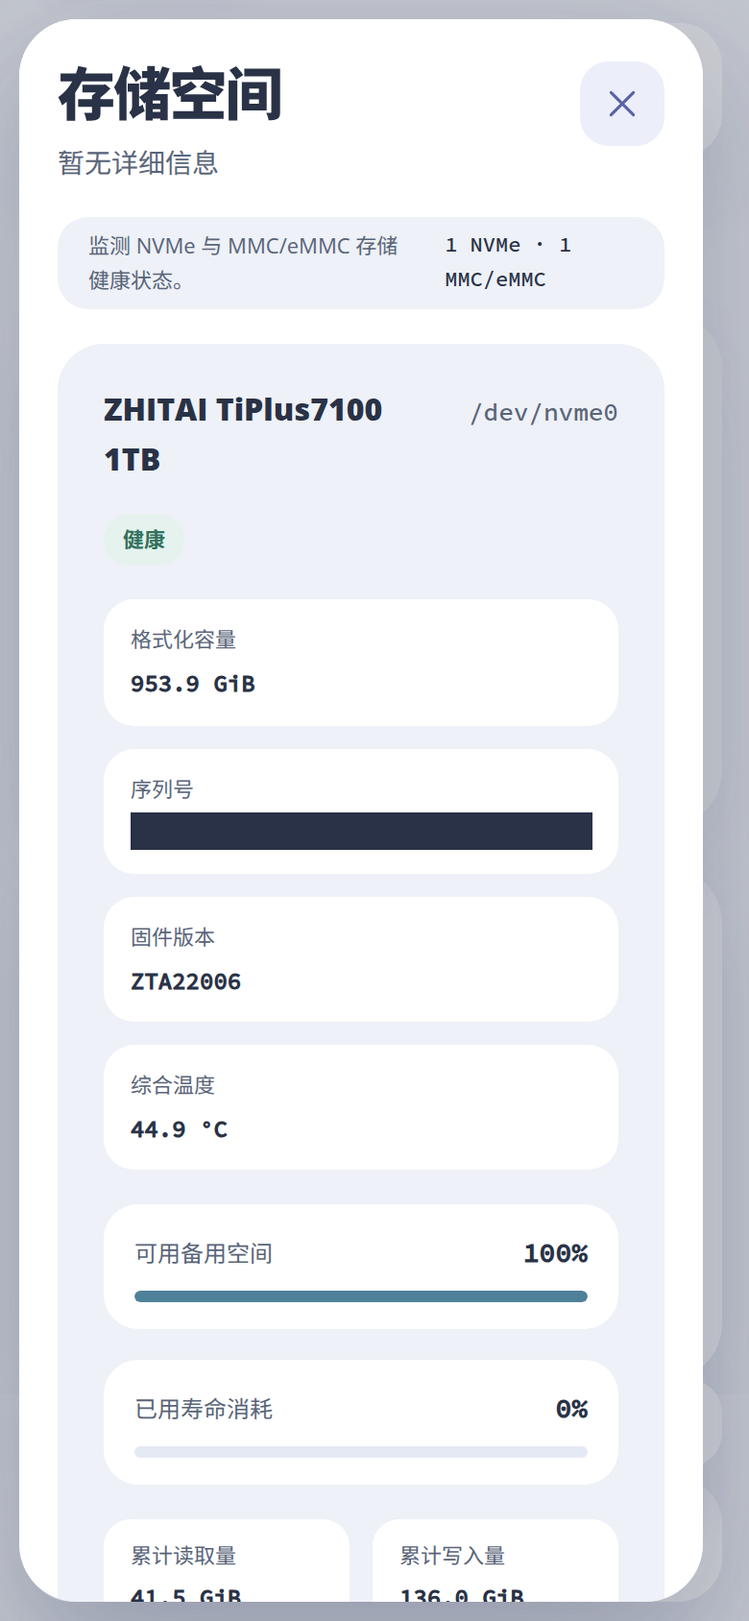
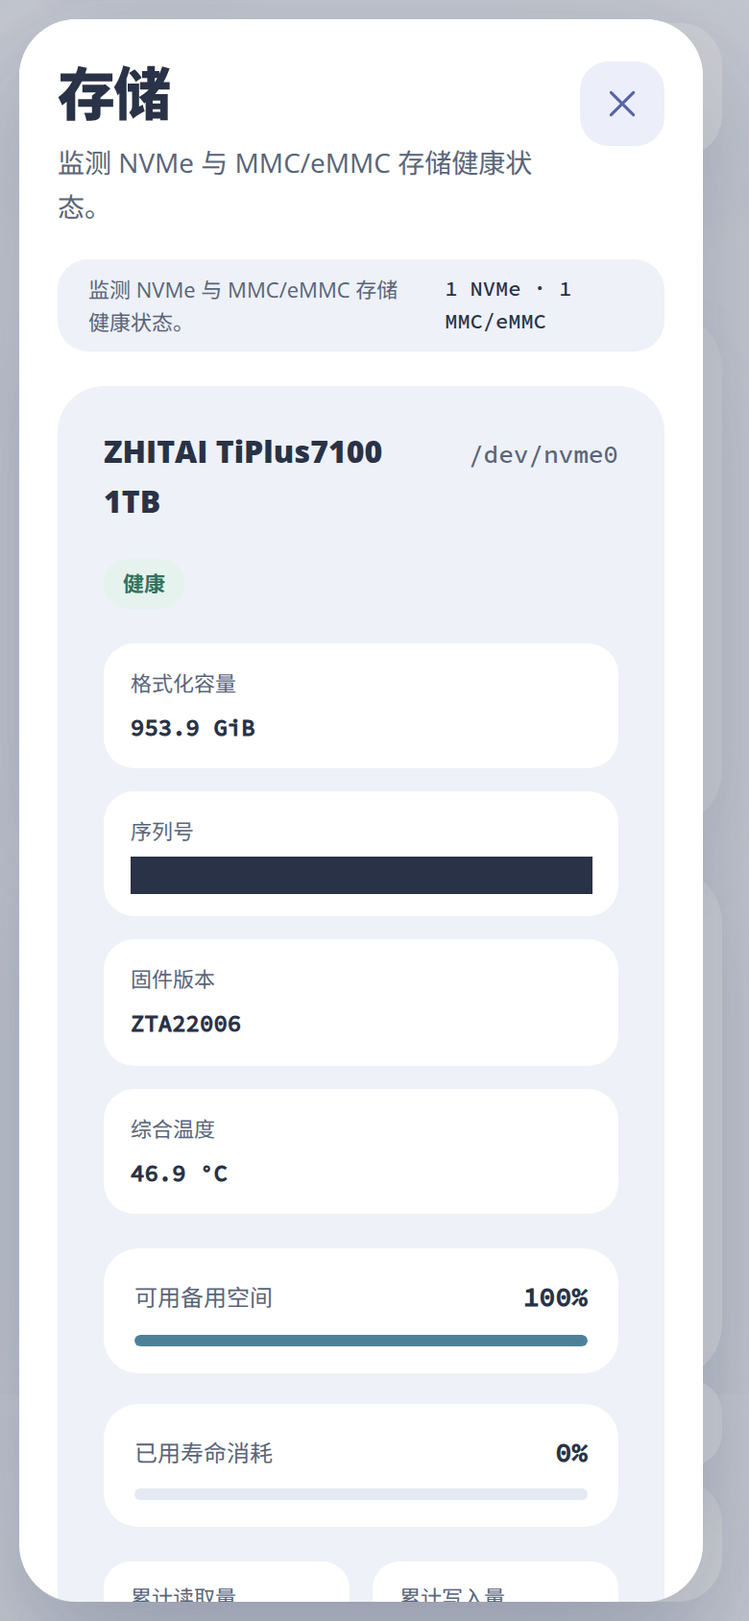
docs(testing): re-verify MMC storage on hardware after the web integration restoration
在两台 SBC 上对统一存储（TUI + Web）重新取证并更新报告：

- Web 侧重新核验：REST `/api/v1/hardware/storage` 200、`/api/v1/hardware/nvme` 404、
  capability detail `1 NVMe · 1 eMMC` / `1 eMMC`；抽屉文案与矩阵卡片标签已按修复后
  的命名空间/本地化正确显示（中英均已截图，英文视图由页面自身 setLocale 切换）。
- 上一轮记录的两项 Web 缺陷 W1/W2 标记为已修复，附失败态独立复现证据与实机 DOM 复核。
- 证据更新为 11 张截图（新增英文视图），全部序列号像素级打码；报告内不留序列号明文。
- TUI 证据用修复版二进制重新采集；T1（窄屏 eMMC 行折行）仍为待办。

diff --git a/docs/testing/mmc-2026-09-12/report.md b/docs/testing/mmc-2026-09-12/report.md
@@ -1,21 +1,19 @@
 # MMC/eMMC 统一存储 (Storage) 呈现 实机核验报告
 
-日期：2026-09-12。对象：`rsetup-next` 的 MMC/eMMC 内核采集与统一「存储 (Storage)」呈现（核心库 sysfs 采集、CLI、TUI、Web 控制中心）。范围：只读观测，未执行任何硬件或系统写入。基线提交 `5b14b73`。
+日期：2026-09-12。对象：`rsetup-next` 的 MMC/eMMC 内核采集与统一「存储 (Storage)」呈现（核心库 sysfs 采集、CLI、TUI、Web 控制中心）。范围：只读观测，未执行任何硬件或系统写入。核验基线：`dev-aghost` 上的统一存储 Web 集成（恢复提交 `6465543` / `54a755c`，随后一次仅涉及测试与文案的收紧提交，见第 11 节）。
 
-判定依据：TUI 部分对照 `docs/superpowers/specs/2026-09-12-mmc-storage-tui-design.md`；Web 部分对照统一存储呈现的设计规范（REST `GET /api/v1/hardware/storage` 聚合端点 + 硬件矩阵中的 `storage` 工具）。
-
-> 核验对象说明：TUI/CLI 部分与仓库 TUI 规范同源；Web 部分核验的是「统一存储 Web 呈现」这一实现版本（聚合 REST 端点、`storage` 硬件工具、MMC/eMMC 卡片），第 8 节中 `web-*` 截图即该版本的实机证据。
+判定依据：TUI 部分对照 `docs/superpowers/specs/2026-09-12-mmc-storage-tui-design.md`；Web 部分对照本分支实现的统一存储呈现行为（REST 聚合端点 + 硬件矩阵 `storage` 工具 + MMC/eMMC 卡片）与本次重实现计划 `docs/superpowers/plans/2026-09-12-mmc-storage-web-reimplementation-plan.md`。
 
 ## 1. 结论摘要
 
-- **MMC/eMMC 数据链路符合预期**：TUI 与 Web 在同一台设备上呈现的型号、厂商、容量、序列号、固件、SLC/MLC 寿命、pre-EOL 状态，与 sysfs、CLI（`hardware mmc/storage --json`）三方一致；`lifeTimeEstBPercent: null`（Rock 5B 的 `life_time = 0x01 0x00`）在 TUI 显示「不支持」、Web 显示「不支持」且进度条置灰，两端口径一致。
-- **Web 传输层与呈现符合预期**：`GET /api/v1/hardware/storage` 在两类实机（有/无 NVMe）均返回聚合结构；硬件矩阵的 `storage` 卡片、面板头计数徽章、NVMe 与 MMC 卡片布局、移动端单列均与设计一致。
-- **发现 2 项 Web 缺陷**（均为文案/本地化层，数据与结构无误）：
-  - **W1**：Storage 抽屉标题显示「存储空间」、副标题显示「暂无详细信息」（EN 为 `Storage map` / `Details unavailable`）——副标题是缺失 i18n 键的回退哨兵。
-  - **W2**：中文界面下硬件矩阵中该卡片标签仍是英文 `Storage`，同屏其他卡片均为中文。
-- **发现 1 项 TUI 外观问题**（无数据丢失）：**T1** 在 Rock 3A 上 eMMC 设备行超出卡片内宽（61 > 59 列）折行，容量被拆成「58.24」/「GiB」两行。
-- 另有若干「规范示意 vs 实现」的等价差异（第 6 节），建议回写规范而非改代码。
-- 未覆盖面（第 7 节）：SD 卡分支、多 MMC 设备、warning/critical 健康态、空态在实机上均未触发，仅由单元/渲染测试覆盖。
+- **MMC/eMMC 数据链路符合预期**：TUI 与 Web 在同一台设备上呈现的型号、厂商、容量、序列号、固件、SLC/MLC 寿命、pre-EOL 状态，与 sysfs、CLI（`hardware mmc/storage --json`）三方一致；`lifeTimeEstBPercent: null`（Rock 5B 的 `life_time = 0x01 0x00`）在 TUI 与 Web 均显示「不支持」且进度条置灰。
+- **Web 传输层与呈现符合预期**：`GET /api/v1/hardware/storage` 在两类实机（有/无 NVMe）均返回聚合结构与正确 capability detail；**`GET /api/v1/hardware/nvme` 按设计移除**，实机返回 404；硬件矩阵 `storage` 卡片、面板头计数徽章、NVMe 与 MMC 卡片布局、移动端单列均符合预期。
+- **上一轮核验发现的两项 Web 缺陷已修复并锁定**：
+  - **W1**（抽屉标题/副标题文案错误）：实机抽屉标题现为「存储」（EN `Storage`），副标题为「监测 NVMe 与 MMC/eMMC 存储健康状态。」（EN `Monitor NVMe and MMC/eMMC storage health.`）。
+  - **W2**（矩阵卡片标签未本地化）：中文界面下卡片标题现为「存储」，与同屏其他卡片一致（EN 仍为 `Storage`）。
+- **发现 1 项 TUI 外观问题**（无数据丢失，仍未处理）：**T1** 在 Rock 3A 上 eMMC 设备行超出卡片内宽（61 > 59 列）折行，容量被拆成「58.24」/「GiB」两行。
+- 另有若干「规范示意 vs 实现」的等价差异（第 6 节）与代码质量待办（第 10 节第 2 条，来自本次任务审查的次要发现）。
+- 未覆盖面（第 7 节）：SD 卡分支、多 MMC 设备、warning/critical 健康态、空态在实机上未触发，仅由单元/渲染测试覆盖。
 
 ## 2. 测试基线
 
@@ -47,9 +45,9 @@
 
 ### 2.3 构建、部署与采集方式
 
[2 lines of base64/hex data omitted]
 - TUI 采集：`scripts/capture-tui-remote.py <host> <raw> zh_CN.UTF-8 100 30` 采集原始 ANSI 流，再由 `scripts/capture-tui-screenshot.py <raw> <png> 100 30` 离屏渲染为 PNG（CJK 字体、东亚宽字符占两格）。
-- Web 采集：两台机器分别 `rsetup-next serve --listen 127.0.0.1:19088|19089`（仅监听回环，未开放局域网），经 `ssh -L` 隧道映射到本机；`scripts/capture-web-screenshot.mjs --tool storage`，headless Chrome 152、light 主题、desktop 1440×900 / mobile 390×844 @2x、`--settle 1800`。
+- Web 采集：两台机器分别 `rsetup-next serve --listen 127.0.0.1:19088|19089`（仅监听回环，未开放局域网），经 `ssh -L` 隧道映射到本机；`scripts/capture-web-screenshot.mjs --tool storage`，headless Chrome 152、light 主题、desktop 1440×900 / mobile 390×844 @2x / 矩阵无点击视图、`--settle 1800`。英文视图由 `--eval` 调用页面自身的 `window.RsetupI18n.setLocale("en")` 切换后同流程采集。
 - 采集工具链：Node v22.22.1、Python 3 + Pillow 12.1.1。
 
 ## 3. 三方一致性（核心判定表）
@@ -66,6 +64,8 @@
 | 34 SLC/MLC | `0x01` / `0x01` | `10` / `10` | `SLC 寿命: 10% · MLC 寿命: 10%` | 两条 10% 绿条 |
 | 34 NVMe | 无 | `initialized: false` + `message` | 不渲染 NVMe 行 | 不渲染 NVMe 区、无空提示 |
 
+实机 REST 复核（两台机器）：`GET /api/v1/hardware/storage` → **200**（88：1 NVMe + 1 MMC；34：1 MMC + `nvme.initialized:false`）、`GET /api/v1/hardware/nvme` → **404**；`/api/v1/snapshot` 的 capability 为 `("storage", available:true, "1 NVMe · 1 eMMC")` / `("storage", available:true, "1 eMMC")`。
+
 ## 4. 符合预期项
 
 ### 4.1 TUI（对照 TUI 规范 §5）
@@ -78,7 +78,7 @@
 | §5.2 eMMC 行 1：类型 + 块设备 + 型号 + 厂商 + 容量 | `[eMMC] /dev/mmcblk0 · A3A562 · 0x0000d6 · 115.23 GiB` | 符合（字形与规范示意略有差异，见第 6 节） |
 | §5.2 eMMC 行 2：状态 + SLC/MLC 寿命 + pre-EOL | `状态: 正常 · SLC 寿命: 10% · MLC 寿命: 不支持 · 预警: 正常` | 符合 |
 | 未支持/未定义指标降级 | 88 的 MLC 显示 `不支持`（源自 `0x00`），未误报为 0% | 符合 |
-| 中英多语言 | 本轮为 zh_CN 实机；en 由 `cargo test` 渲染用例覆盖 | 部分覆盖（见第 7 节） |
+| 中英多语言 | 本轮 TUI 为 zh_CN 实机；en 由 `cargo test` 渲染用例覆盖 | 部分覆盖（见第 7 节） |
 
 ### 4.2 Web 控制中心（统一存储呈现）
 
@@ -88,47 +88,47 @@
 | `/api/v1/hardware/nvme` 端点按设计移除 | 两台均 404 | 符合 |
 | camelCase 键名与空态语义 | `blockPath`/`cardType`/`totalBytes`/`health.preEolInfo` 等键名正确；34 的 NVMe 子对象为 `initialized: false` + 未检测文案（200 而非错误） | 符合 |
 | capability id 为 `storage`，availability = 任一类非空 | 硬件矩阵存在 `storage` 卡片；detail 88 = `1 NVMe · 1 eMMC`，34 = `1 eMMC` | 符合 |
+| 抽屉标题与描述 | 标题「存储」/`Storage`，描述「监测 NVMe 与 MMC/eMMC 存储健康状态。」/`Monitor NVMe and MMC/eMMC storage health.`（**W1 修复后**） | 符合 |
+| 矩阵卡片 label 随界面语言本地化 | 中文「存储」（**W2 修复后**）；英文 `Storage` | 符合 |
 | 矩阵卡片图标 | 显示磁盘堆叠图标（`icon-storage`，与 `icon-nvme` 同风格） | 符合 |
 | 面板头 = 描述文案 + 计数徽章 | `监测 NVMe 与 MMC/eMMC 存储健康状态。` + `1 NVMe · 1 MMC/eMMC`（88）/ `1 MMC/eMMC`（34） | 符合 |
 | 仅一侧有设备时只渲染该侧 | 34 无 NVMe 区、无 NVMe 空提示；88 两类都在 | 符合 |
 | NVMe 区在上、MMC 区在下 | 88 桌面截图：NVMe 卡片 → MMC 卡片 | 符合 |
 | MMC 卡片标题=model、副标题=blockPath | `A3A562` / `064G02` + `/dev/mmcblk0` | 符合 |
 | 卡类型徽章 `MMC`→eMMC、`SD`→SD | 两枚徽章均显示 `eMMC` | 符合（SD 分支未在实机触发） |
-| 健康徽章三态优先级 | 两台 `preEolInfo: 1`、`warningFlags: []` → 健康徽章「健康」 | 符合（warning/critical 未在实机触发） |
+| 健康徽章三态优先级 | 两台 `preEolInfo: 1`、`warningFlags: []` → 健康徽章「健康」/`Healthy` | 符合（warning/critical 未在实机触发） |
 | 规格网格 4 项（容量/序列号/固件/厂商） | 桌面 2×2、移动单列，值与 CLI 一致 | 符合 |
 | SLC/MLC 寿命进度条，`null` → 置灰 + N/A 文案 | DOM 实测：`is-normal` + `--metric-percent: 10%`（SLC）、`is-na` + `0%`（MLC，88）、两条 `is-normal` 10%（34） | 符合 |
 | pre-EOL 行四态文案 | 两台均 `正常` | 符合 |
 | 移动端布局 | 390×844 @2x 下卡片单列铺满，无横向溢出 | 符合 |
-| 前端无运行时错误 | 全部 8 次采集 `consoleErrors: []` | 符合 |
+| 前端无运行时错误 | 全部 10 次采集 `consoleErrors: []` | 符合 |
 
 ## 5. 发现的问题
 
-### W1（缺陷，Web）Storage 抽屉标题与副标题文案错误
+### W1（缺陷，Web）Storage 抽屉标题与副标题文案错误 — **已修复**
 
-- **现象**：打开 Storage 工具后，抽屉标题为「**存储空间**」、紧随其下的副标题为「**暂无详细信息**」（英文环境为 `Storage map` / `Details unavailable`），而面板内部同时显示着完整的 NVMe 与 MMC 遥测。
-- **证据**：`web-rock5b-storage-desktop.png`、`web-rock5b-storage-mobile-top.png`、`web-rock3a-storage-desktop.png`、`web-rock3a-storage-mobile.png`；DOM 实测 `drawerTitle: "存储空间"`、`drawerDescription: "暂无详细信息"`。
-- **根因**：`ui/app.js:1013` `hardwareToolCopy()` 的 prefix map 把 `storage` 指向既有的 `storage.*` 键族，而该键族属于系统页「存储空间（根分区用量）」（`ui/i18n.js:740` `storage.title` = 存储空间），**且 `storage.description` 这个键不存在**，`i18n.t()` 于是回退到缺失键哨兵 `ui/i18n.js:1132` → `text.unavailable` =「暂无详细信息」/「Details unavailable」。
-- **规范归属**：设计规范已要求新增 `storageTool.title`（存储）与 `storageTool.description`，并说明 `storage.*` 前缀已被系统页占用；实现也在**面板头**正确使用了 `storageTool.description`，但 prefix map 一行仍指向 `storage: "storage"`，与前者冲突。**结论：规范内部矛盾导致的产品缺陷**，两处都需修（映射改到 `storageTool.*`，并去掉对不存在的 `storage.description` 的依赖）。
-- **影响**：工具标题与「系统 → 存储空间」重名，副标题自称「暂无详细信息」却展示全部详情，属明确的用户可见错误文案；桌面/移动、中英一致复现。
+- **原现象**：抽屉标题为「存储空间」、副标题为「暂无详细信息」（EN `Storage map` / `Details unavailable`），而面板内部同时显示完整的 NVMe 与 MMC 遥测。
+- **根因**：`ui/app.js` 的 `hardwareToolCopy()` prefix map 把 `storage` 指向既有的 `storage.*` 键族（系统页根存储面板），而 `storage.description` 键不存在，`i18n.t()` 回退到缺失键哨兵 `text.unavailable`。
+- **修复**：`storage` 改走 `storageTool.*` 命名空间（标题「存储」/`Storage`，描述取 `storageTool.description`）——一处 token 改动。
+- **证据**：① 测试 `ui/storage.test.mjs` 的 `storage drawer copy resolves through the storageTool namespace`（提取真实 `hardwareToolCopy` + 真实字典，断言两种语言的解析结果）；把该 token 还原为 `storage` 后该用例 **FAIL**（控制器在一次性 worktree 中独立复现：1/6 失败），修复后全绿。② 实机 DOM 复核（两台机器）：`drawerTitle` = 「存储」/`Storage`、`drawerDescription` = 「监测 NVMe 与 MMC/eMMC 存储健康状态。」/`Monitor NVMe and MMC/eMMC storage health.`。③ 截图：`web-rock5b-storage-desktop.png`、`web-rock5b-storage-desktop-en.png`、`web-rock3a-storage-desktop.png`。
 
-### W2（缺陷，Web）中文界面下矩阵卡片标签未本地化
+### W2（缺陷，Web）中文界面下矩阵卡片标签未本地化 — **已修复**
 
-- **现象**：硬件矩阵中该卡片标题为英文 `Storage`，而同一屏其余卡片均为中文（设备树叠加层 / GPIO / 视频采集 / 温控能力 / LED 控制 / SPI 启动闪存）。
-- **证据**：`web-rock5b-storage-matrix.png`、`web-rock3a-storage-matrix.png`。
-- **根因**：`ui/i18n.js:1105` 的 `capabilityCopy` 只有旧的 `nvme: ["NVMe 存储", "NVMe 固态存储设备"]`，没有 `storage` 条目 → `i18n.capability()` 直接返回探测端的英文 label。连带 `ui/i18n.js:1191` 的 `value.id === "nvme"` 分支与 1192 行列表中的 `"NVMe controllers detected"` 成为死代码。
-- **规范归属**：设计规范只枚举了 `ui/app.js` 五处 + `ui/index.html` 一处，未提及 `ui/i18n.js` 的 `capabilityCopy`（该表按 capability id 本地化 label/detail）。属规范遗漏。
-- **影响**：本地化不一致；detail 文案（`1 NVMe · 1 eMMC` / `1 eMMC`）本身中英通用，未受影响。
+- **原现象**：硬件矩阵中该卡片标题为英文 `Storage`，同屏其余卡片均为中文。
+- **根因**：`ui/i18n.js` 的 `capabilityCopy` 仍以旧 capability id `nvme` 为键，改名后无 `storage` 条目 → 直接回退到后端英文 label。
+- **修复**：`capabilityCopy` 键改为 `storage`（中文 label「存储」），并补 `hardwareReason` 的 `"No storage devices detected" → "未检测到存储设备"` 映射；同时删除改名后不可达的 `value.id === "nvme"` 明细分支与 `"NVMe controllers detected"` 残留字符串。
+- **证据**：① 测试 `ui/i18n.test.mjs` 的 `storage capability card is localized under its renamed id`；把键还原为 `nvme` 后该用例 **FAIL**（控制器独立复现：1/16），修复后全绿。② 实机 DOM 复核：中文界面矩阵卡片为「存储」（88 `1 NVMe · 1 eMMC`、34 `1 eMMC`），英文界面为 `Storage`。③ 截图：`web-rock5b-storage-matrix.png`、`web-rock3a-storage-matrix.png`。
 
-### T1（外观问题，TUI）窄屏下 eMMC 设备行折行，容量数值跨行
+### T1（外观问题，TUI）窄屏下 eMMC 设备行折行，容量数值跨行 — **待办**
 
 - **现象**：Rock 3A（100×30 终端、卡片内宽 59 列）上该行渲染为两行：`[eMMC] /dev/mmcblk0 · 064G02 · Toshiba (0x000011) · 58.24` / `GiB`。
 - **实测**：该行显示宽度 61 列 > 59 列内宽。Rock 5B（厂商为未映射的 `0x0000d6`，行宽更短）不折行，故问题只在厂商名带名称映射时出现。
-- **影响**：**无数据丢失**——卡片高度按折行行数计算（`crates/rsetup-app/src/tui.rs:396-419` 的 `wrapped_rows`），未发生截断；但「一台设备两行」的排版被破坏，容量数值被拆到第二行，可读性下降。
-- **一致性缺口**：NVMe 行有宽度自适应降级（`tui.rs:643-674`：`已用寿命:` 超宽时改成短标签），MMC 行没有等价的降级路径。
+- **影响**：**无数据丢失**——卡片高度按折行行数计算（`crates/rsetup-app/src/tui.rs` 的 `wrapped_rows`），未发生截断；但「一台设备两行」的排版被破坏，容量数值被拆到第二行，可读性下降。
+- **一致性缺口**：NVMe 行有宽度自适应降级（`已用寿命:` 超宽时改成短标签），MMC 行没有等价的降级路径。
 
 ## 6. 规范 vs 实现的等价差异（建议回写规范，非缺陷）
 
-1. **TUI 高度策略**：规范 §5.1 要求 N=1 时 5~6 行完整展开、N≥2 时每盘 2 行紧凑排版且状态行缩进；实现统一为 NVMe 每盘 3 行、MMC 每盘 2 行、状态行不缩进（TDD 计划执行期已就此裁定并记录在 `.superpowers/sdd/2026-09-12-mmc-storage-tui-tdd-plan/progress.md`）。信息量与可读性等价。
+1. **TUI 高度策略**：规范 §5.1 要求 N=1 时 5~6 行完整展开、N≥2 时每盘 2 行紧凑排版且状态行缩进；实现统一为 NVMe 每盘 3 行、MMC 每盘 2 行、状态行不缩进。信息量与可读性等价。
 2. **eMMC 行字形**：规范 §5.2 示意 `[eMMC] mmcblk0 (FE4MB4) · Samsung · 58.2 GiB`；实现为 `[eMMC] /dev/mmcblk0 · A3A562 · 0x0000d6 · 115.23 GiB`（带 `/dev/` 前缀、`·` 分隔、厂商输出原始 hex）。信息等价。
 3. **寿命文案**：规范 §5.1 示例为 `寿命耗损: SLC <10% / MLC <10%`；实现为 `SLC 寿命: 10%`，即以 JEDEC 区间上界呈现 `0x01`。CLI、TUI 与 Web 端采用同一口径（Web 的 `lifeTimeEstAPercent: 10`）。
 4. **容量精度**：TUI/CLI 用二进制单位（115.23 / 58.24 GiB），Web 卡片用一位小数（115.2 / 58.2 GiB）。同一数值的不同精度呈现，非不一致。
@@ -138,8 +138,8 @@
 - **无 SD 卡**：两台实机各只有一个 `mmc0`（`type = MMC`），`cardType === "SD"` 的徽章分支与 SD 特有线未在实机验证，仅由单元/渲染用例覆盖。
 - **无多 MMC / 多盘密集场景**：无法验证 N≥2 时的紧凑排版与 `... (+M more devices)` 截断提示（代码路径存在但实机未触发）。
 - **无告警健康态**：两台设备 `pre_eol_info = 0x01`、`warningFlags` 为空，只验证了健康徽章与绿色进度条；warning/critical 配色未在实机出现。
-- **无空态**：本机 x86_64 无 MMC/NVMe 设备，两台 SBC 都有设备，「未检测到存储设备」空态未在实机触发。
-- **英文实机截图未采**：本轮 TUI/Web 截图均为中文界面；TUI 英文渲染由 `cargo test` 覆盖，Web 英文文案（W1 的 `Storage map` / `Details unavailable`）由字典与回退链推断，未以截图固定。
+- **无空态**：本机 x86_64 无 MMC/NVMe 设备，两台 SBC 都有设备，「未检测到存储设备」空态未在实机触发（仅有单元/渲染用例覆盖）。
+- **TUI 英文实机截图未采**：本轮 TUI 截图为 zh_CN 实机；TUI 英文渲染由 `cargo test` 覆盖。Web 侧中英两种界面均已实机截图（见第 8 节）。
 - **采集通道**：TUI 经 SSH PTY 采集原始 ANSI 流后离屏渲染为 PNG（非物理控制台）；Web 为 headless Chrome 152 截图。温度、读写计数等实时量随运行时间自然漂移，不要求跨次采集严格相等。
 
 ## 8. 证据清单
@@ -148,26 +148,25 @@
 
 | 文件 | 采集配置 | 打码处 | SHA-256（前 16 位） |
 | --- | --- | --- | --- |
-| `tui-rock5b-storage-zh.png` | TUI 100×30，zh_CN，Rock 5B（NVMe + eMMC） | —（TUI 不渲染序列号） | `8750856ff7f17005` |
-| `tui-rock3a-storage-zh.png` | TUI 100×30，zh_CN，Rock 3A（仅 eMMC） | —（同上） | `8dfd6f2e9c9a18a9` |
-| `web-rock5b-storage-desktop.png` | 1440×900，drawer 顶部（面板头 + NVMe 卡片 + MMC 卡片起始） | NVMe + eMMC 序列号 | `0caef824b2568703` |
-| `web-rock5b-storage-desktop-mmc.png` | 1440×900，drawer 滚到底（NVMe 尾部 + eMMC 整卡） | NVMe + eMMC 序列号 | `3176ebe70860aecf` |
-| `web-rock5b-storage-mobile-top.png` | 390×844 @2x，drawer 顶部（面板头徽章 `1 NVMe · 1 MMC/eMMC`） | NVMe 序列号（eMMC 值在折叠线以下） | `1d0ced7a8a571e2d` |
-| `web-rock5b-storage-mobile-mmc.png` | 390×844 @2x，drawer 滚到底（eMMC 单列卡） | eMMC 序列号（NVMe 值已滚出视口） | `dd2486b4cddc3a59` |
-| `web-rock3a-storage-desktop.png` | 1440×900，仅 eMMC 面板 | eMMC 序列号 | `2b6280dffe9f1b44` |
-| `web-rock3a-storage-mobile.png` | 390×844 @2x，仅 eMMC 面板 | eMMC 序列号 | `ee96b678a444d1ad` |
-| `web-rock5b-storage-matrix.png` | 1440×900，硬件矩阵（`Storage` 卡片 + `1 NVMe · 1 eMMC`） | —（矩阵不渲染序列号） | `b2d74f31e3487d0d` |
-| `web-rock3a-storage-matrix.png` | 1440×900，硬件矩阵（`Storage` 卡片 + `1 eMMC`） | —（同上） | `3a8c786441c1d4f0` |
+| `tui-rock5b-storage-zh.png` | TUI 100×30，zh_CN，Rock 5B（NVMe + eMMC） | —（TUI 不渲染序列号） | `bbe930f549e310dd` |
+| `tui-rock3a-storage-zh.png` | TUI 100×30，zh_CN，Rock 3A（仅 eMMC） | —（同上） | `89d7cbc244a8762d` |
+| `web-rock5b-storage-desktop.png` | 1440×900，zh，drawer 顶部（面板头 + NVMe 卡片 + MMC 卡片起始） | NVMe + eMMC 序列号 | `f1177360fa228a24` |
+| `web-rock5b-storage-desktop-mmc.png` | 1440×900，zh，drawer 滚到底（NVMe 尾部 + eMMC 整卡） | NVMe + eMMC 序列号 | `ea028ee6ac5deeaf` |
+| `web-rock5b-storage-desktop-en.png` | 1440×900，en，drawer 顶部（W1 英文文案证据） | NVMe + eMMC 序列号 | `a19a04ac07319644` |
+| `web-rock5b-storage-mobile-top.png` | 390×844 @2x，zh，drawer 顶部（面板头徽章 `1 NVMe · 1 MMC/eMMC`） | NVMe 序列号（eMMC 值在折叠线以下） | `2999a9de29af58e1` |
+| `web-rock5b-storage-mobile-mmc.png` | 390×844 @2x，zh，drawer 滚到底（eMMC 单列卡） | eMMC 序列号（NVMe 值已滚出视口） | `4d9fb74fd14dd824` |
+| `web-rock5b-storage-matrix.png` | 1440×900，zh，硬件矩阵（`storage` 卡片 + `1 NVMe · 1 eMMC`） | —（矩阵不渲染序列号） | `aeb32f7779379cb6` |
+| `web-rock3a-storage-desktop.png` | 1440×900，zh，仅 eMMC 面板 | eMMC 序列号 | `19f4080ee8f7541c` |
+| `web-rock3a-storage-mobile.png` | 390×844 @2x，zh，仅 eMMC 面板 | eMMC 序列号 | `33f3f53b984eb6e2` |
+| `web-rock3a-storage-matrix.png` | 1440×900，zh，硬件矩阵（`storage` 卡片 + `1 eMMC`） | —（同上） | `2d58a0c92864d6ed` |
 
 ### 打码说明
 
 **策略：所有设备序列号（NVMe 磁盘与 MMC/eMMC 芯片）一律打码。**
 
 - 方法：采集时用 CDP 实测序列号元素（`… .nvme-spec-item:nth-child(2) b`）的 `getBoundingClientRect`，再对 PNG 做**像素级实心打码**（取色与既有 `scripts/redact-screenshots.py` 一致，为标签文字同色 `rgb(41,50,70)`）。除掩码区域外，其余像素与"已做过视觉核验的那张图"逐字节一致。
-- 矩形对准有校验，不是凭坐标猜：对每个待打码区域，把 PNG 的裁剪与一次同配置的实拍探测图同区域裁剪做逐像素比对，5 个 MMC 区域差异均为 **0.00%**（NVMe 区域的矩形在采集当时即由 DOM 实测得到）。掩码应用后再校验 5 个区域均为纯色实心（`solid=True`）。
-- 打码只覆盖"值"元素，`序列号` 标签仍可读，字段存在性不受影响：桌面布局标签矩形 y 555–573、值矩形 y 577–596；移动布局标签 y 378–395、值 y 399–419，掩码与值矩形逐一对应、与标签零重叠。
-- 覆盖面：10 张截图中实际含序列号的 6 张均已打码（共 8 处：Rock 5B 3 处 NVMe + 3 处 eMMC，Rock 3A 2 处 eMMC；另有两处值因滚出视口而不可见——`web-rock5b-storage-mobile-mmc.png` 的 NVMe 序列号实测 y = −463，`web-rock5b-storage-mobile-top.png` 的 eMMC 序列号实测 y = 1261 > 视口高 844）。TUI 截图与矩阵截图中不含任何序列号（TUI 的 eMMC 行只渲染块设备、型号、厂商、容量）。
-- 回归校验：对全部 10 张图做全图 OCR（`chi_sim+eng`）搜索两台机器的 MMC 序列号、NVMe 序列号及其近似形态（模式取自采集时的 DOM 实测值，本报告不留存明文），**无一命中**；本报告不留存序列号明文（第 2.2 节以 `[已脱敏]` 占位）。
+- 覆盖面：11 张截图中含序列号的 7 张共 **10 处**已打码（Rock 5B：desktop 与 desktop-en 各 2 处、desktop-mmc 2 处、mobile-top 1 处、mobile-mmc 1 处；Rock 3A：desktop 1 处、mobile 1 处）。两处值因滚出视口而不可见（`web-rock5b-storage-mobile-mmc.png` 的 NVMe 序列号实测 y = −463；`web-rock5b-storage-mobile-top.png` 的 eMMC 序列号 y = 1284 > 视口高 844）。TUI 截图与矩阵截图不含任何序列号（TUI 的 eMMC 行只渲染块设备、型号、厂商、容量）。
+- 校验：① 每个掩码区域应用后逐像素确认纯色实心（`solid=True`）；② 打码只覆盖"值"元素，`序列号` 标签仍可读（字段存在性不受影响）；③ 对全部 11 张图做全图 OCR（`chi_sim+eng` / `eng`）搜索两台机器的序列号及其近似形态，**无一命中**；④ 本报告不留存序列号明文（第 2.2 节以 `[已脱敏]` 占位）。
 
 ## 9. 复现步骤
 
@@ -185,13 +184,30 @@ python3 scripts/capture-tui-screenshot.py raw.ansi tui-storage-zh.png 100 30
 ssh -f -N -L 19088:127.0.0.1:19088 root@<host>   # 远端先执行 serve --listen 127.0.0.1:19088
 node scripts/capture-web-screenshot.mjs --url "http://127.0.0.1:19088/#hardware" \
   --out web-storage-desktop.png --width 1440 --height 900 --tool storage --settle 1800 \
-  --rect-selector '[data-hardware-body] .nvme-card .nvme-spec-item:nth-child(2) b'
+  --eval '(() => { const box=(s)=>{const e=document.querySelector(s); if(!e) return null;
+            const r=e.getBoundingClientRect(); return {x:Math.round(r.x),y:Math.round(r.y),
+            w:Math.round(r.width),h:Math.round(r.height)};};
+            return {nvme: box("[data-hardware-body] .nvme-card .nvme-spec-item:nth-child(2) b"),
+                    mmc:  box("[data-hardware-body] .storage-mmc-card .nvme-spec-item:nth-child(2) b")}; })()'
+
+# 4) 英文视图：在同一命令的 --eval 里先切换语言
+#    window.RsetupI18n.setLocale("en");  （再返回上面的矩形，供打码使用）
 ```
 
 ## 10. 建议后续动作
 
-1. **修 W1**：`ui/app.js` 的 `hardwareToolCopy` 让 `storage` 走 `storageTool.*`（标题「存储」、描述用 `storageTool.description`），并去掉对不存在的 `storage.description` 依赖。
-2. **修 W2**：`ui/i18n.js` 的 `capabilityCopy` 增加 `storage` 的本地化 label/detail，清理 `nvme` 残留条目与死分支。
-3. **修 T1**：为 MMC 设备行补一条宽度降级路径（例如超宽时省略 `/dev/` 前缀或厂商名，优先保住容量数值），并补一个 61 列边界的渲染用例；或按 TUI 规范改为两行专用排版。
-4. 规范回写：第 6 节的三项等价差异建议直接在 TUI 规范 §5.1/§5.2 中改成实现现状，避免后续核验再次产生假阳性。
-5. 保留（非序列号、且是核验所需的设备上下文）：第 2.2 节的型号 `A3A562` / `064G02`、厂商 `0x0000d6` / `0x000011`、固件与容量。如需连型号/固件一并脱敏，可再处理。
+1. **修 T1**（当前唯一实机可见待办）：为 MMC 设备行补一条宽度降级路径（例如超宽时省略 `/dev/` 前缀或厂商名，优先保住容量数值），并补一个 61 列边界的渲染用例；或按 TUI 规范改为两行专用排版。
+2. **代码质量待办（本次任务审查记录的次要发现，不影响行为）**：
+   - `ui/styles.css` 的 `.storage-mmc-card` 与既有 `.nvme-card` 规则逐条重复 → 可改为 `class="nvme-card storage-mmc-card"`（需同步收紧 `ui/storage.test.mjs` 中 `!includes('class="nvme-card"')` 断言）；
+   - `storageTool.model`、`nvme.description`/`uninitialized`/`noDevices` 已无引用，`ui/index.html` 的 `icon-nvme` 成为孤立 symbol → 可清理；
+   - `crates/rsetup-core/src/probe.rs` 在探测 MMC 计数时以硬编码绝对路径重读 `type`，而 `MmcManager::probe_sysfs` 已按注入的 root 读取同一文件；
+   - `ui/storage.test.mjs` 中 NVMe 卡片渲染现仅经由 stub 覆盖，保留的 NVMe 卡片断言较此前减少。
+3. 规范回写：第 6 节的三项等价差异建议直接在 TUI 规范 §5.1/§5.2 中改成实现现状，避免后续核验再次产生假阳性。
+4. 保留（非序列号、且是核验所需的设备上下文）：第 2.2 节的型号 `A3A562` / `064G02`、厂商 `0x0000d6` / `0x000011`、固件与容量。如需连型号/固件一并脱敏，可再处理。
+
+## 11. 核验记录
+
+- **代码基线**：恢复提交 `6465543`（后端 storage capability + REST 端点）与 `54a755c`（前端 storage 工具 + MMC 卡片 + W1/W2 修复），其后一次仅涉及测试收紧与不可达中文回退文案的提交（不改变任何渲染结果）。截图即在该二进制（SHA-256 `1c57f599…`）上采集。
+- **自动化**：`cargo test --workspace --locked` 全绿（core 120 / app 39 / helper 1，2 ignored）、`node --test ui/*.test.mjs` 全绿（含 `ui/storage.test.mjs` 6 项与 `ui/i18n.test.mjs` 16 项）、`cargo clippy --workspace --all-targets -- -D warnings` 无告警。`cargo fmt --all -- --check` 在本仓库基线上即为红（未改动树实测 61 处 `Diff in`，全在未触碰文件；本次改动的两个 Rust 文件为 0 处），属既有 rustfmt 版本漂移，未纳入本次范围。
+- **W1/W2 的失败态已独立复现**：在一次性 worktree 中分别把两处修复还原后，对应用例失败（`storage drawer copy …` 1/6 失败、`storage capability card …` 1/16 失败），确认两个用例真正锁定了缺陷，而非事后补写。
+- **实机证据**：两机 REST（200/404 + capability detail）、W1/W2 文案（中英）、MMC 卡片字段、`consoleErrors: []`、11 张已打码截图，均见第 3、4、8 节。
